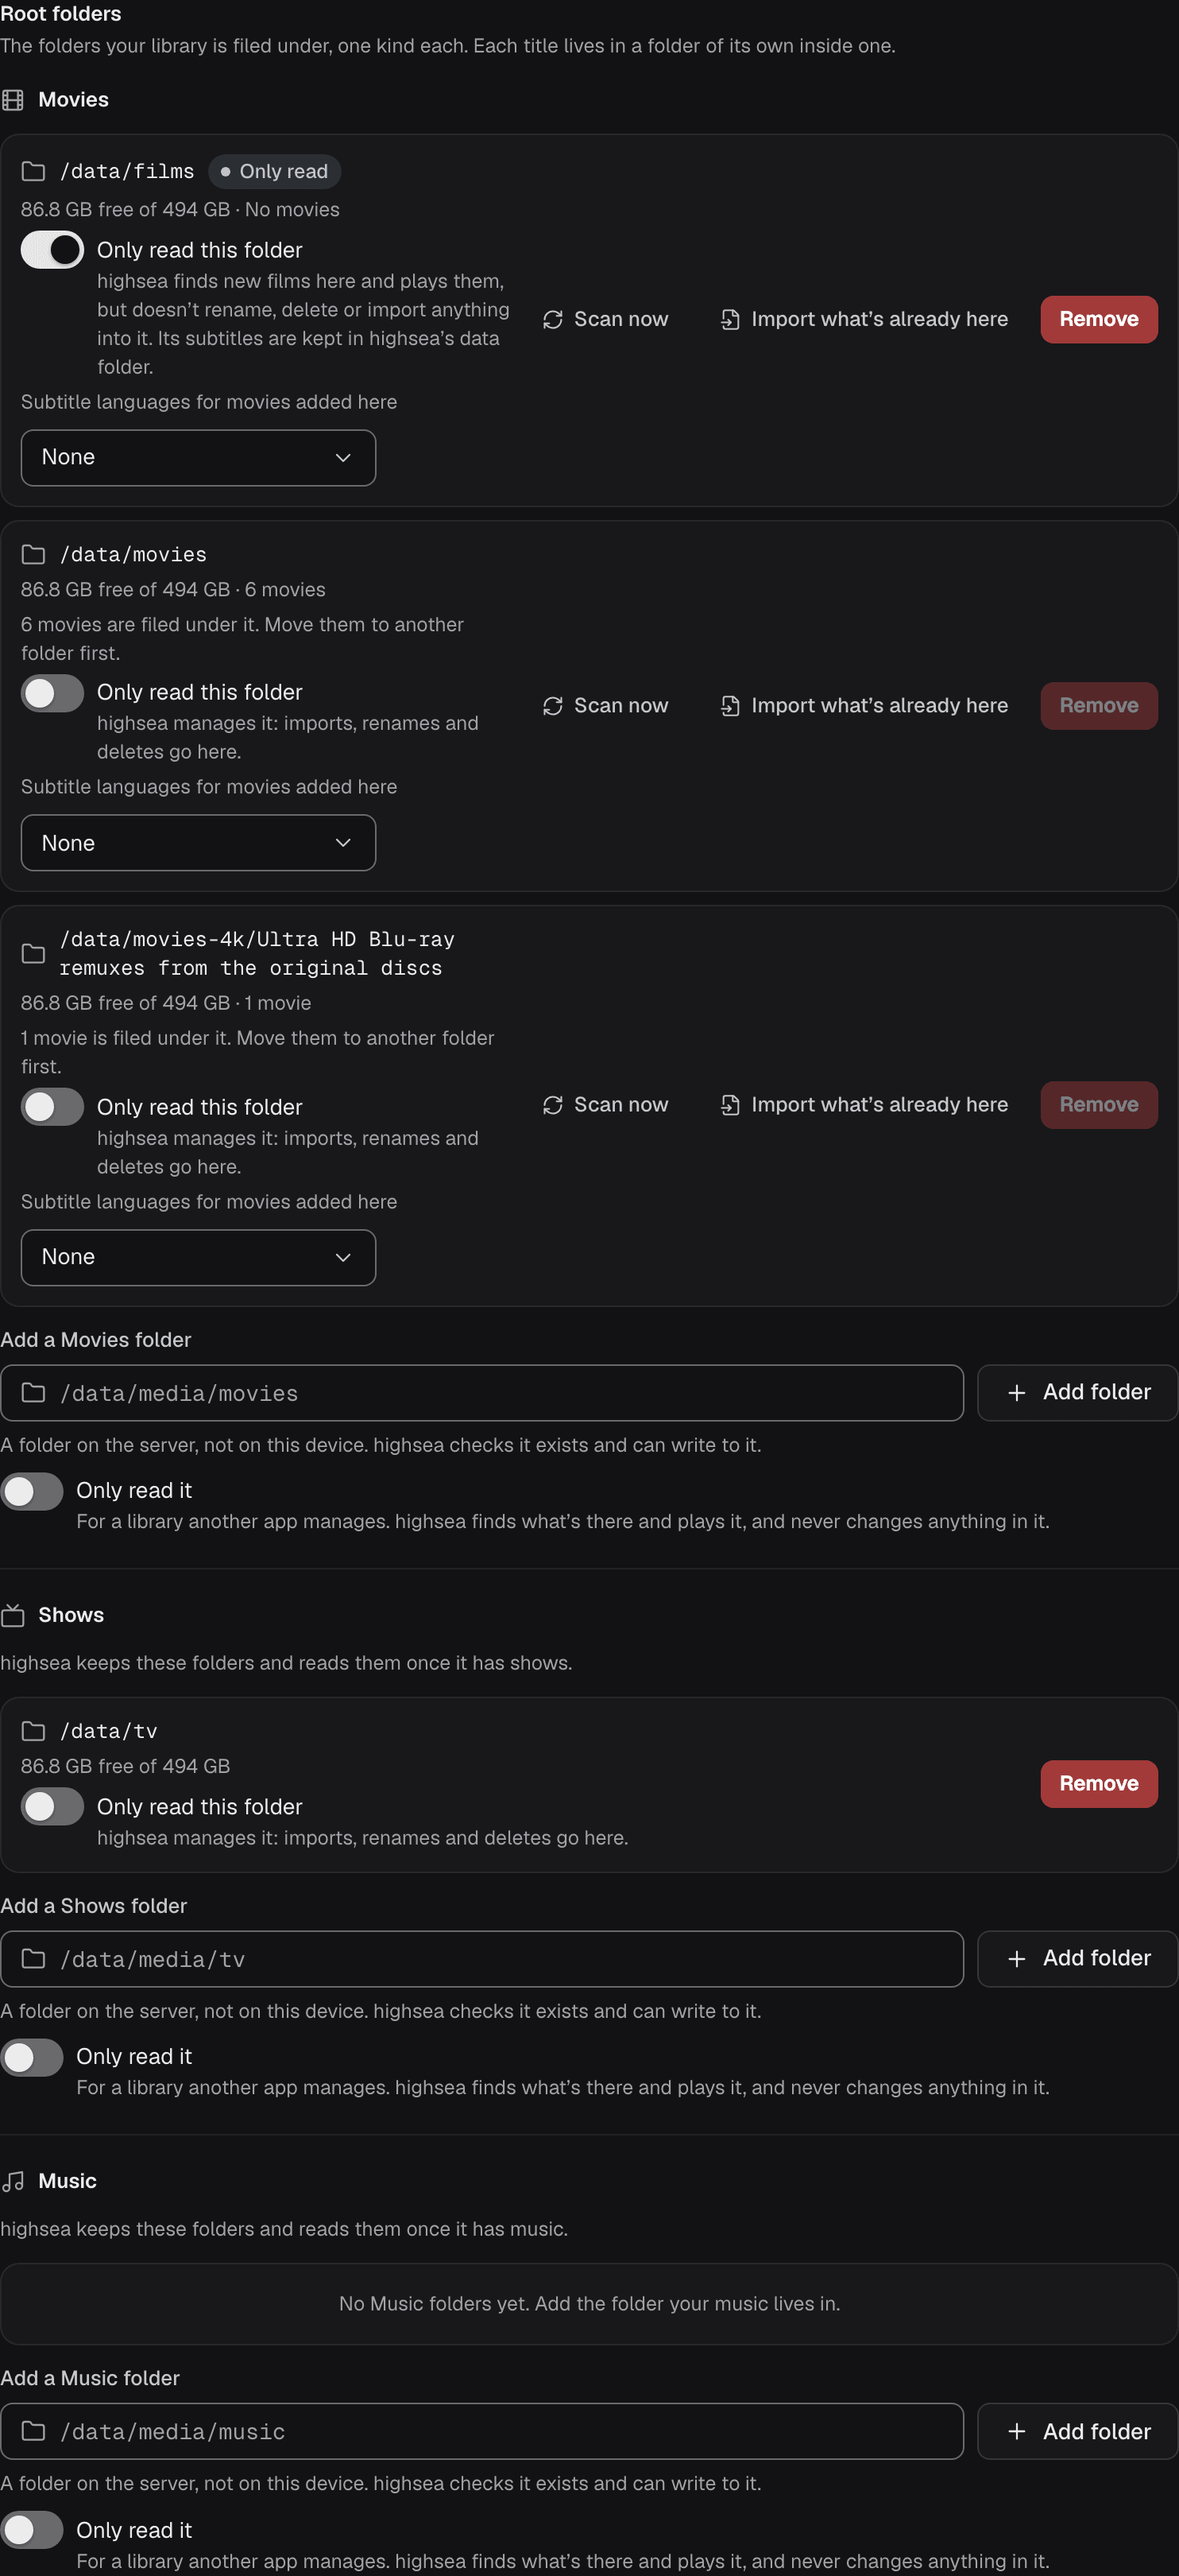
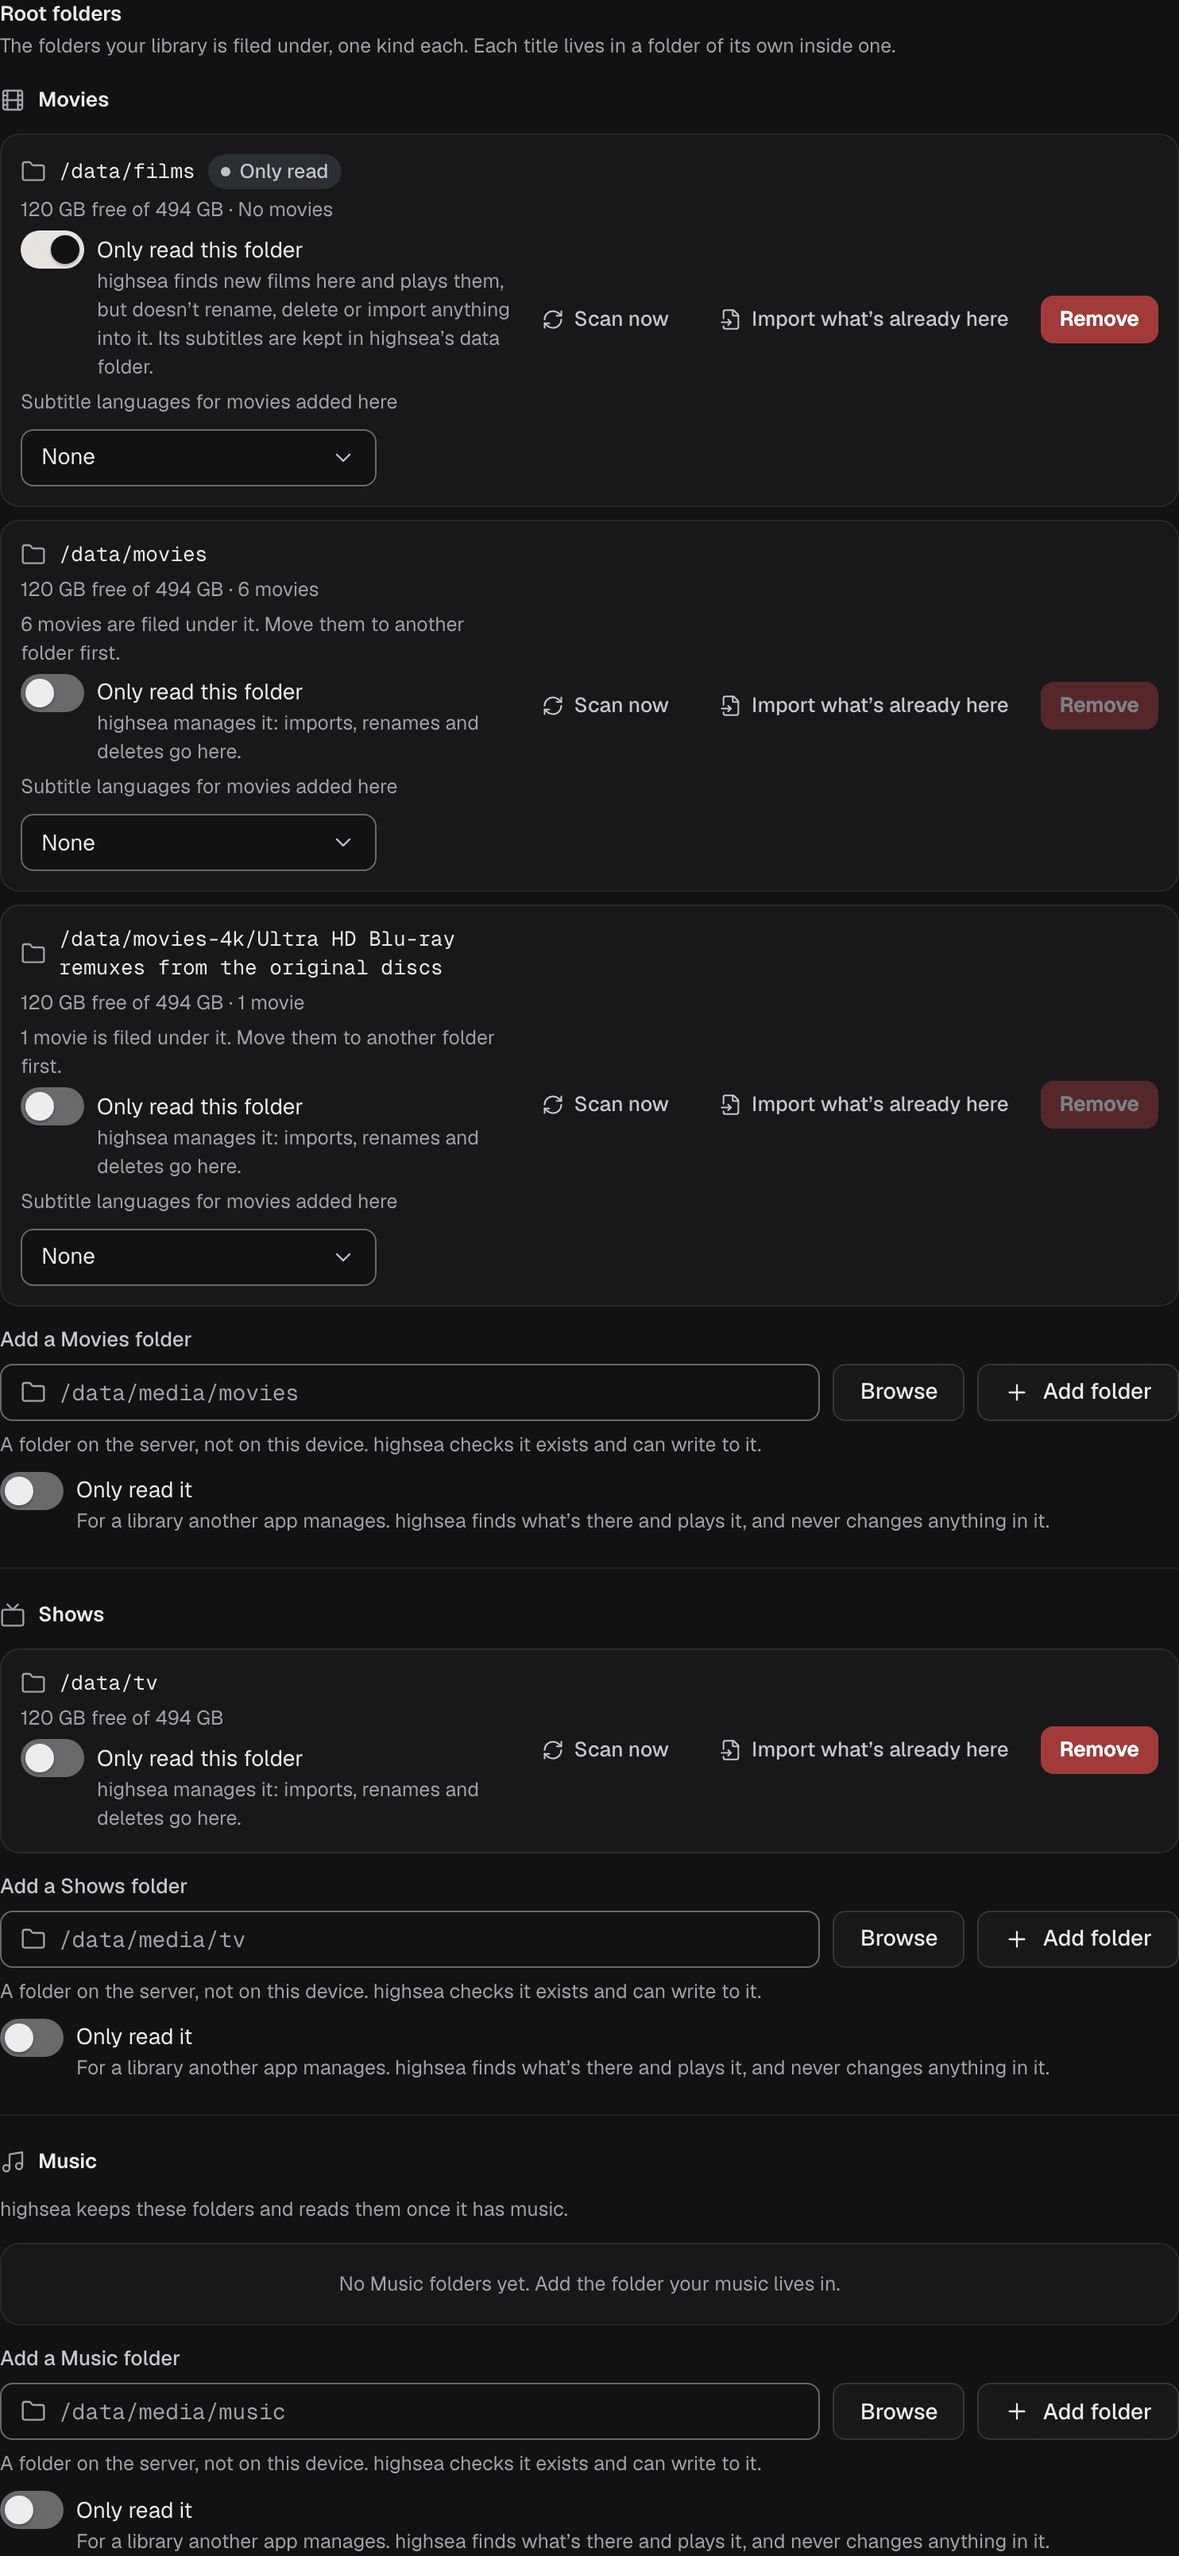
Document the folder picker and retake Media management's shots
- The root folders guide says how Browse and the picker work, with a new
  shot of the picker and the retaken root folders, importing and page shots
- settings.md describes the picker, its fields, its route and its states
- Dated lines in phase 5's progress and docs/status.md
- The picker open over Media management in .pr/folder-picker/ for the
  pull request

diff --git a/scripts/docs-shots/areas/settings-media-management.ts b/scripts/docs-shots/areas/settings-media-management.ts
@@ -1,6 +1,6 @@
 // SPDX-License-Identifier: AGPL-3.0-only
 // The Media management guide's screenshots (apps/docs/content/settings/media-management/): its
-// Naming, Importing and Tags cards, the root folders the seed made, and removing a tag.
+// Naming, Importing and Tags cards, the root folders the seed made, the folder picker, and removing a tag.
 import type { Page } from 'playwright-core'
 import type { Area } from '../shot.ts'
 
@@ -23,6 +23,16 @@ export default {
       height: 2400,
       crop: (p) =>
         p.getByRole('heading', { name: 'Root folders', exact: true }).locator('xpath=../..'),
+    },
+    {
+      // HT-91: Browse beside Add a Shows folder, opened where browsing starts, the data folder
+      name: 'folder-picker',
+      path: '/settings/media',
+      act: async (p) => {
+        await p.getByRole('button', { name: 'Browse' }).nth(1).click()
+        await p.getByRole('dialog').getByRole('list').waitFor()
+      },
+      crop: (p) => p.getByRole('dialog'),
     },
     { name: 'tags', path: '/settings/media', height: 1800, crop: card('Tags') },
     {

diff --git a/docs/product/settings.md b/docs/product/settings.md
@@ -74,6 +74,7 @@ Everything about how the server runs, in one place, one area per page: the regio
 - **Quality sizes:** `settings.qualitySizes()` → `GET /api/v1/settings/qualitySizes` (staff): `{ quality, min, preferred, max }` per quality, lowest first, in MiB per minute. *8c:* `settings.saveQualitySizes()` → `PUT` the same address with every quality's row; 400 `invalid` names the row.
 - **Profiles and formats:** `quality.profiles()` → `GET /api/v1/qualityprofiles[/{id}]` and `quality.customFormats()` → `GET /api/v1/customformats`, both staff ([ADR 0031](../adr/0031-quality-and-the-decision-engine.md)). *8c:* a profile adds `waitMinutes` and `builtIn`, a format `edited`. `quality.addProfile` (`POST /qualityprofiles`, 201), `saveProfile` (`PUT /qualityprofiles/{id}`), `removeProfile` (`DELETE`, 204; 409 `in-use` with the movies, or `last-profile`) and `orderProfiles` (`PUT /qualityprofiles/order` with every id once); `quality.addFormat` (`POST /customformats`, 201), `saveFormat` (`PUT /customformats/{id}`) and `removeFormat` (`DELETE`, 204). A name taken ignoring case is 409 `name-taken`; each write sends `settings.updated`. All staff.
 - **Root folders** (Media management › Importing): [movies.md › Data](movies.md#data). *As built (6b):* each root folder gains a ghost link beside **Remove**, **Import what’s already here** ("Import the movies already in {path}" for screen readers), which opens [Manual import › Library import](manual-import.md#library-import-6b) on that folder. *As built (4.1a's review, the owner's change):* adding a root folder (here or at setup) queues the library scan of it, and the scan adds each new folder whose TMDB match is sure (an id in its name, or the same title and year) in place; the rest wait for Library import, and the row's line adds "{n} folders need a match in Library import" (`RootFolder.waiting`). The add toast adds "Movies already in it are added as they're found." Not in the prototype.
+- **The folder picker** (HT-91, 2026-11-19, the owner's word on 0.4.7: "where is the folder selector?"). Every admin field that takes a folder on the server keeps its typed path and gains **Browse** beside it: Media management's **Add a Movies / Shows / Music folder**, Download client's category folder and watch folder, Activity › Import's folder (picking one looks inside it), Backups' folder, Playback's transcode cache, and Migration's highsea-side path in each mapping. Browse opens setup's picker, lifted into `packages/admin/src/folder-picker.tsx` (setup uses it too, over its own route): the path as crumbs, **Up one level**, the folders by name, **Use this folder** and **Cancel**. It opens at the field's folder, or at the data folder when the field is empty or that folder isn't there (with a line saying so). It lists through `GET /api/v1/fs/folders` (staff): folders only, never files, inside the data folder, the root folders, the downloads folder and the categories' folders, never the config folder, after `..` and symlinks are resolved. A folder with more than 12 folders gets **Filter folders**; at most 200 rows are drawn, with "Showing 200 of 1,312. Filter to find the rest."; the server returns at most 5,000, sorted by name with numbers as numbers. Its states: loading (skeleton rows), an empty folder, a folder that isn't there any more, one highsea can't read, one outside what it may browse, and, where the field saves into the folder, a warning when highsea can only read it. Library layout unchanged otherwise; the prototype draws it from the mock's folders.
 - **General, Backups and metrics** (8b, [ADR 0047](../adr/0047-operations.md)): `settings.general()`, `settings.saveGeneral(value)` → `GET|PUT /api/v1/settings/general` (staff read, the owner saves) → `{ language, timeZone, updateChannel, logLevel, crashReports }`. `settings.backups()`, `settings.saveBackups(value)` → `GET|PUT /api/v1/settings/backups` (the owner's) → `{ schedule, time, weekday, keep, folder }`: the schedule is `daily`, `weekly` or `off`, the time is local to the server's time zone, and the weekday counts from 0, Sunday; a folder that isn't a full path highsea can write is 400, and scheduled backups beyond `keep` are deleted. `settings.metrics()`, `settings.saveMetrics({ enabled })` → `GET|PUT /api/v1/settings/metrics` (staff read, the owner saves).
 - **Connections** (8b, [ADR 0046](../adr/0046-notifications.md)): `connections.list`, `add`, `update`, `remove` → `/api/v1/connections[/{id}]`; `connections.test` → `POST /api/v1/connections/test` with draft settings, and `connections.testSaved(id)` → `POST …/{id}/test`; `connections.log(id)` → `GET …/{id}/log`. All staff, except `pushKey`. Secrets come back as `••••` and their last four characters, and a masked value sent back keeps the stored secret. Event `connections.updated` (staff). For browsers, any signed-in person: `connections.pushKey()` → `GET /api/v1/connections/push-key` (the server's VAPID public key), and their own subscriptions, `pushSubscriptions.list`, `add` and `remove`, at `GET|POST /api/v1/me/push-subscriptions` and `DELETE …/{id}`. The service worker is `/sw.js`.
 - Events: `settings.updated`, whose ids since 8b include `general`, `backups` and `metrics`.

diff --git a/docs/status.md b/docs/status.md
@@ -42,5 +42,6 @@ Where each phase, checkpoint and plan is, newest work at the end of each list. C
 - **0.4.5 published and installed on the NAS** (2026-11-19, run 44444822503, tag `v0.4.5`): the artwork migration applied and the heroes work on the real library; the logo refetch needed a manual run (its daily schedule is kept in the database). Findings in [Phase 5's Progress](plans/phase-5-real-use.md#progress).
 - **Issue forms for the indexer catalog** (2026-11-19, HT-84, waiting for the owner's review): forms for a broken indexer, a suggestion and a moved or closed site, plus a bug report and feature idea, in `.github/ISSUE_TEMPLATE/`; part E of [the upkeep plan](plans/indexer-catalog-upkeep.md#progress). The broken-indexer form's field ids are listed in the catalog's README for the Report link.
 - **Four public film indexers** (2026-11-19, HT-77, waiting for the owner's review): YTS, Knaben, BitSearch and Torrents-CSV in the catalog (2026.11.19.2), written from their own API documentation under CC0-1.0, with engine 1.1.0's additions; [phase 5's progress](plans/phase-5-real-use.md#progress) has the detail.
+- **A folder picker on every folder field** (2026-11-19, HT-91, waiting for the owner's review): the owner's finding on 0.4.7 that folder paths had to be typed. Setup's picker is shared, **Browse** sits beside every admin field that takes a folder on the server, and a staff route lists folders only, inside the data folder and the folders highsea knows, never `/config` ([phase 5's progress](plans/phase-5-real-use.md#progress), [settings.md](product/settings.md)).
 - **The first real download** (2026-11-19, HT-76): the Internet Archive torrent that sat at 0% on the NAS. Web seeds (BEP 19), announces logged, a Stalled status after 30 minutes with no peers or data, web seeds in the Trackers tab, peers in the dashboard's Queue widget, and the Add dialog's note on folders highsea only reads; ADR 0037's section of 2026-11-19. Waiting for the owner's review.
 - **Follow-up after Phase 3:** dashboard customization on Homarr's level, with a visible grid ([docs/plans/dashboard-customization.md](plans/dashboard-customization.md)). Not scheduled; a prototype is approved first.

diff --git a/docs/plans/phase-5-real-use.md b/docs/plans/phase-5-real-use.md
@@ -262,6 +262,8 @@ The order is films, then shows, then music: films are already built and only nee
   - **Real-server check:** the sweep's seed imports Chernobyl from generated episodes with a recap left unmatched; the admin's Shows pages and the web client's shows, show page, Home and episode player, axe and keyboard clean in every theme. It found and fixed: Shows couldn't be given to a user, and the web show page's episodes weren't list items.
   - **Next (B's fourth task):** episodes' subtitles, resolving unmatched files, notifications' and mail's posters for episodes, and the guides.
 
+- **2026-11-19, A1 finding on 0.4.7, a folder picker on every folder field (HT-91):** the owner, adding their shows folder in Media management: "the folder paths are just plain text fields where the user has to type the path manually - where is the folder selector?" Setup's picker is now shared (`packages/admin/src/folder-picker.tsx`) and every admin field that takes a folder on the server has **Browse** beside its typed path: Media management's three Add folder fields, a download category's folder, the watch folder, manual import, backups, the transcode cache and Migration's highsea-side paths. Setup's route answers only until setup is finished, so the picker lists through a new staff route, `GET /api/v1/fs/folders`: folders only, inside the data folder, the root folders, the downloads folder and the categories', never `/config`, with `..` and symlinks resolved first; a folder highsea can't read, one gone and one outside each say so, and a field highsea saves into warns when it can only read the folder. Long folders (the owner's 1,300 films) get a filter and at most 200 rows drawn. Waiting for the owner's review.
+
 ## Running highsea on the NAS (A1)
 
 - **2026-11-19, A1, fanart.tv as a second artwork source, and the refetch after an update (HT-74):** what 0.4.5's findings left open, and the owner's choice of fanart.tv as TMDB's fallback (2026-11-18).
